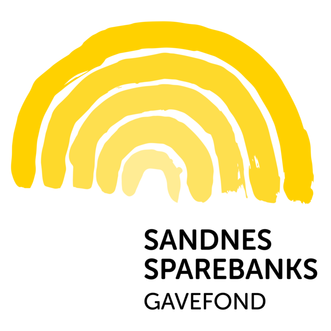
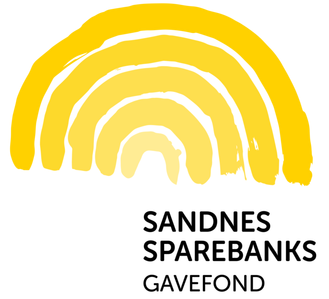
Triggered deployment

diff --git a/index.html b/index.html
@@ -100,22 +100,30 @@
                   <h2 class="blogpost_title"><a href="/posts/stottesandnessparebanksgavfond.html">Gavemidler fra Sandnes Sparebanks Gavefond</a></h2>
                   <section class="listing_meta"> <span>2019-05-14</span> </section>
                   <article class="contentarea">
-                  <p>Vi har mottatt gavemidler fra Sandnes Sparebanks Gavefond! Tusen takk til Sandnes Sparebanks Gavefond som har troen på oss og vår neste teaterproduksjon &laquo;Teno &amp; Stouch &amp; den rare Shakespeare&raquo;.</p>
-<p><br /></p>
-<p>
-<div class="blog_post_image"><img alt="Sandnes Sparebanks Gavefond" src="/uploads/images/SPGavefond.png" title="Sandnes Sparebanks Gavefond" /></div>
+                  <p>
+<div class="float_right" style="float: right">
+<div class="blog_post_image"><img alt=" Sandnes Sparebanks Gavefond " src="/uploads/images/gavefond-logo.png" style="width:300px;margin-right:1em" title=" Sandnes Sparebanks Gavefond " /></div>
+</div>
 </p>
+<p><strong>Teater Åndsverk har mottatt gavemidler fra Sandnes Sparebanks Gavefond!</strong></p>
+<p><br /></p>
+<p>Tusen takk til <a href="https://sandnes-sparebank.no/gavefond">Sandnes Sparebanks Gavefond</a> som har troen på oss og vår neste teaterproduksjon «Teno &amp; Stouch &amp; den rare Shakespeare». </p>
+<p><br /></p>
+<p>«Teno &amp; Stouch &amp; den rare Shakespeare» er en teaterforestilling som vil introdusere den verdenskjente dikteren William Shakespeare og hans verk til barn og unge. Følg produksjonen her eller på <a href="https://www.facebook.com/teateraandsverk/">Facebook</a> og <a href="https://www.instagram.com/teateraandsverk/">Instagram</a>.</p>
                   </article>
                 </div>
                 <div class="blog_post_preview">
                   <h2 class="blogpost_title"><a href="/posts/nystotteosloteatersenter.html">Støtte til vår nye produksjon fra Oslo teatersenter</a></h2>
                   <section class="listing_meta"> <span>2019-03-12</span> </section>
                   <article class="contentarea">
-                  <p>Teater Åndsverk har mottatt støtte i form av prøvelokaler fra Oslo teatersenter til vårt nye prosjekt: &laquo;Teno &amp; Stouch &amp; den rare Shakespeare&raquo;. Tusen takk! &laquo;Teno &amp; Stouch &amp; den rare Shakespeare&raquo; er en barneforestilling som vil introdusere den verdenskjente dikteren - William Shakespeare - til barn i alle aldre. Følg produksjonen videre her eller på <a href="https://www.facebook.com/teateraandsverk/">Facebook</a> og <a href="https://www.instagram.com/teateraandsverk/">Instagram</a>.</p>
-<p><br /></p>
-<p>
-<div class="blog_post_image"><img alt="Oslo teatersenter" src="/uploads/images/Osloteatersenter.jpg" title="Oslo teatersenter" /></div>
+                  <p>
+<div class="float_right" style="float: right">
+<div class="blog_post_image"><img alt="Oslo teatersenter" src="/uploads/images/Osloteatersenter.jpg" style="width:300px;margin-right:1em" title="Oslo teatersenter" /></div>
+</div>
 </p>
+<p><strong>Teater Åndsverk har mottatt støtte fra Oslo teatersenter!</strong></p>
+<p><br /></p>
+<p>Tusen takk til <a href="http://www.osloteatersenter.no/">Oslo teatersenter</a>! som støtter vårt nye prosjekt «Teno &amp; Stouch &amp; den rare Shakespeare» med prøvelokaler på Tøyen Trafo. «Teno &amp; Stouch &amp; den rare Shakespeare» er en teaterforestilling som vil introdusere den verdenskjente dikteren William Shakespeare til barn og unge. Følg produksjonen her eller på <a href="https://www.facebook.com/teateraandsverk/">Facebook</a> og <a href="https://www.instagram.com/teateraandsverk/">Instagram</a>.</p>
                   </article>
                 </div>
                 <div class="blog_post_preview">

diff --git a/fragment/page/index.html b/fragment/page/index.html
@@ -27,22 +27,30 @@
                   <h2 class="blogpost_title"><a href="/posts/stottesandnessparebanksgavfond.html">Gavemidler fra Sandnes Sparebanks Gavefond</a></h2>
                   <section class="listing_meta"> <span>2019-05-14</span> </section>
                   <article class="contentarea">
-                  <p>Vi har mottatt gavemidler fra Sandnes Sparebanks Gavefond! Tusen takk til Sandnes Sparebanks Gavefond som har troen på oss og vår neste teaterproduksjon &laquo;Teno &amp; Stouch &amp; den rare Shakespeare&raquo;.</p>
-<p><br /></p>
-<p>
-<div class="blog_post_image"><img alt="Sandnes Sparebanks Gavefond" src="/uploads/images/SPGavefond.png" title="Sandnes Sparebanks Gavefond" /></div>
+                  <p>
+<div class="float_right" style="float: right">
+<div class="blog_post_image"><img alt=" Sandnes Sparebanks Gavefond " src="/uploads/images/gavefond-logo.png" style="width:300px;margin-right:1em" title=" Sandnes Sparebanks Gavefond " /></div>
+</div>
 </p>
+<p><strong>Teater Åndsverk har mottatt gavemidler fra Sandnes Sparebanks Gavefond!</strong></p>
+<p><br /></p>
+<p>Tusen takk til <a href="https://sandnes-sparebank.no/gavefond">Sandnes Sparebanks Gavefond</a> som har troen på oss og vår neste teaterproduksjon «Teno &amp; Stouch &amp; den rare Shakespeare». </p>
+<p><br /></p>
+<p>«Teno &amp; Stouch &amp; den rare Shakespeare» er en teaterforestilling som vil introdusere den verdenskjente dikteren William Shakespeare og hans verk til barn og unge. Følg produksjonen her eller på <a href="https://www.facebook.com/teateraandsverk/">Facebook</a> og <a href="https://www.instagram.com/teateraandsverk/">Instagram</a>.</p>
                   </article>
                 </div>
                 <div class="blog_post_preview">
                   <h2 class="blogpost_title"><a href="/posts/nystotteosloteatersenter.html">Støtte til vår nye produksjon fra Oslo teatersenter</a></h2>
                   <section class="listing_meta"> <span>2019-03-12</span> </section>
                   <article class="contentarea">
-                  <p>Teater Åndsverk har mottatt støtte i form av prøvelokaler fra Oslo teatersenter til vårt nye prosjekt: &laquo;Teno &amp; Stouch &amp; den rare Shakespeare&raquo;. Tusen takk! &laquo;Teno &amp; Stouch &amp; den rare Shakespeare&raquo; er en barneforestilling som vil introdusere den verdenskjente dikteren - William Shakespeare - til barn i alle aldre. Følg produksjonen videre her eller på <a href="https://www.facebook.com/teateraandsverk/">Facebook</a> og <a href="https://www.instagram.com/teateraandsverk/">Instagram</a>.</p>
-<p><br /></p>
-<p>
-<div class="blog_post_image"><img alt="Oslo teatersenter" src="/uploads/images/Osloteatersenter.jpg" title="Oslo teatersenter" /></div>
+                  <p>
+<div class="float_right" style="float: right">
+<div class="blog_post_image"><img alt="Oslo teatersenter" src="/uploads/images/Osloteatersenter.jpg" style="width:300px;margin-right:1em" title="Oslo teatersenter" /></div>
+</div>
 </p>
+<p><strong>Teater Åndsverk har mottatt støtte fra Oslo teatersenter!</strong></p>
+<p><br /></p>
+<p>Tusen takk til <a href="http://www.osloteatersenter.no/">Oslo teatersenter</a>! som støtter vårt nye prosjekt «Teno &amp; Stouch &amp; den rare Shakespeare» med prøvelokaler på Tøyen Trafo. «Teno &amp; Stouch &amp; den rare Shakespeare» er en teaterforestilling som vil introdusere den verdenskjente dikteren William Shakespeare til barn og unge. Følg produksjonen her eller på <a href="https://www.facebook.com/teateraandsverk/">Facebook</a> og <a href="https://www.instagram.com/teateraandsverk/">Instagram</a>.</p>
                   </article>
                 </div>
                 <div class="blog_post_preview">

diff --git a/fragment/posts/nystotteosloteatersenter.html b/fragment/posts/nystotteosloteatersenter.html
@@ -15,11 +15,14 @@
                   <section class="listing_meta"> <span>2019-03-12</span> </section>
                   <div class="blog_post_content">
                     <article class="contentarea">
-                    <p>Teater Åndsverk har mottatt støtte i form av prøvelokaler fra Oslo teatersenter til vårt nye prosjekt: &laquo;Teno &amp; Stouch &amp; den rare Shakespeare&raquo;. Tusen takk! &laquo;Teno &amp; Stouch &amp; den rare Shakespeare&raquo; er en barneforestilling som vil introdusere den verdenskjente dikteren - William Shakespeare - til barn i alle aldre. Følg produksjonen videre her eller på <a href="https://www.facebook.com/teateraandsverk/">Facebook</a> og <a href="https://www.instagram.com/teateraandsverk/">Instagram</a>.</p>
-<p><br /></p>
-<p>
-<div class="blog_post_image"><img alt="Oslo teatersenter" src="/uploads/images/Osloteatersenter.jpg" title="Oslo teatersenter" /></div>
+                    <p>
+<div class="float_right" style="float: right">
+<div class="blog_post_image"><img alt="Oslo teatersenter" src="/uploads/images/Osloteatersenter.jpg" style="width:300px;margin-right:1em" title="Oslo teatersenter" /></div>
+</div>
 </p>
+<p><strong>Teater Åndsverk har mottatt støtte fra Oslo teatersenter!</strong></p>
+<p><br /></p>
+<p>Tusen takk til <a href="http://www.osloteatersenter.no/">Oslo teatersenter</a>! som støtter vårt nye prosjekt «Teno &amp; Stouch &amp; den rare Shakespeare» med prøvelokaler på Tøyen Trafo. «Teno &amp; Stouch &amp; den rare Shakespeare» er en teaterforestilling som vil introdusere den verdenskjente dikteren William Shakespeare til barn og unge. Følg produksjonen her eller på <a href="https://www.facebook.com/teateraandsverk/">Facebook</a> og <a href="https://www.instagram.com/teateraandsverk/">Instagram</a>.</p>
 
 
                     </article>

diff --git a/posts/nystotteosloteatersenter.html b/posts/nystotteosloteatersenter.html
@@ -88,11 +88,14 @@
                   <section class="listing_meta"> <span>2019-03-12</span> </section>
                   <div class="blog_post_content">
                     <article class="contentarea">
-                    <p>Teater Åndsverk har mottatt støtte i form av prøvelokaler fra Oslo teatersenter til vårt nye prosjekt: &laquo;Teno &amp; Stouch &amp; den rare Shakespeare&raquo;. Tusen takk! &laquo;Teno &amp; Stouch &amp; den rare Shakespeare&raquo; er en barneforestilling som vil introdusere den verdenskjente dikteren - William Shakespeare - til barn i alle aldre. Følg produksjonen videre her eller på <a href="https://www.facebook.com/teateraandsverk/">Facebook</a> og <a href="https://www.instagram.com/teateraandsverk/">Instagram</a>.</p>
-<p><br /></p>
-<p>
-<div class="blog_post_image"><img alt="Oslo teatersenter" src="/uploads/images/Osloteatersenter.jpg" title="Oslo teatersenter" /></div>
+                    <p>
+<div class="float_right" style="float: right">
+<div class="blog_post_image"><img alt="Oslo teatersenter" src="/uploads/images/Osloteatersenter.jpg" style="width:300px;margin-right:1em" title="Oslo teatersenter" /></div>
+</div>
 </p>
+<p><strong>Teater Åndsverk har mottatt støtte fra Oslo teatersenter!</strong></p>
+<p><br /></p>
+<p>Tusen takk til <a href="http://www.osloteatersenter.no/">Oslo teatersenter</a>! som støtter vårt nye prosjekt «Teno &amp; Stouch &amp; den rare Shakespeare» med prøvelokaler på Tøyen Trafo. «Teno &amp; Stouch &amp; den rare Shakespeare» er en teaterforestilling som vil introdusere den verdenskjente dikteren William Shakespeare til barn og unge. Følg produksjonen her eller på <a href="https://www.facebook.com/teateraandsverk/">Facebook</a> og <a href="https://www.instagram.com/teateraandsverk/">Instagram</a>.</p>
 
 
                     </article>

diff --git a/fragment/posts/stottesandnessparebanksgavfond.html b/fragment/posts/stottesandnessparebanksgavfond.html
@@ -15,11 +15,16 @@
                   <section class="listing_meta"> <span>2019-05-14</span> </section>
                   <div class="blog_post_content">
                     <article class="contentarea">
-                    <p>Vi har mottatt gavemidler fra Sandnes Sparebanks Gavefond! Tusen takk til Sandnes Sparebanks Gavefond som har troen på oss og vår neste teaterproduksjon &laquo;Teno &amp; Stouch &amp; den rare Shakespeare&raquo;.</p>
-<p><br /></p>
-<p>
-<div class="blog_post_image"><img alt="Sandnes Sparebanks Gavefond" src="/uploads/images/SPGavefond.png" title="Sandnes Sparebanks Gavefond" /></div>
+                    <p>
+<div class="float_right" style="float: right">
+<div class="blog_post_image"><img alt=" Sandnes Sparebanks Gavefond " src="/uploads/images/gavefond-logo.png" style="width:300px;margin-right:1em" title=" Sandnes Sparebanks Gavefond " /></div>
+</div>
 </p>
+<p><strong>Teater Åndsverk har mottatt gavemidler fra Sandnes Sparebanks Gavefond!</strong></p>
+<p><br /></p>
+<p>Tusen takk til <a href="https://sandnes-sparebank.no/gavefond">Sandnes Sparebanks Gavefond</a> som har troen på oss og vår neste teaterproduksjon «Teno &amp; Stouch &amp; den rare Shakespeare». </p>
+<p><br /></p>
+<p>«Teno &amp; Stouch &amp; den rare Shakespeare» er en teaterforestilling som vil introdusere den verdenskjente dikteren William Shakespeare og hans verk til barn og unge. Følg produksjonen her eller på <a href="https://www.facebook.com/teateraandsverk/">Facebook</a> og <a href="https://www.instagram.com/teateraandsverk/">Instagram</a>.</p>
 
 
                     </article>

diff --git a/posts/stottesandnessparebanksgavfond.html b/posts/stottesandnessparebanksgavfond.html
@@ -88,11 +88,16 @@
                   <section class="listing_meta"> <span>2019-05-14</span> </section>
                   <div class="blog_post_content">
                     <article class="contentarea">
-                    <p>Vi har mottatt gavemidler fra Sandnes Sparebanks Gavefond! Tusen takk til Sandnes Sparebanks Gavefond som har troen på oss og vår neste teaterproduksjon &laquo;Teno &amp; Stouch &amp; den rare Shakespeare&raquo;.</p>
-<p><br /></p>
-<p>
-<div class="blog_post_image"><img alt="Sandnes Sparebanks Gavefond" src="/uploads/images/SPGavefond.png" title="Sandnes Sparebanks Gavefond" /></div>
+                    <p>
+<div class="float_right" style="float: right">
+<div class="blog_post_image"><img alt=" Sandnes Sparebanks Gavefond " src="/uploads/images/gavefond-logo.png" style="width:300px;margin-right:1em" title=" Sandnes Sparebanks Gavefond " /></div>
+</div>
 </p>
+<p><strong>Teater Åndsverk har mottatt gavemidler fra Sandnes Sparebanks Gavefond!</strong></p>
+<p><br /></p>
+<p>Tusen takk til <a href="https://sandnes-sparebank.no/gavefond">Sandnes Sparebanks Gavefond</a> som har troen på oss og vår neste teaterproduksjon «Teno &amp; Stouch &amp; den rare Shakespeare». </p>
+<p><br /></p>
+<p>«Teno &amp; Stouch &amp; den rare Shakespeare» er en teaterforestilling som vil introdusere den verdenskjente dikteren William Shakespeare og hans verk til barn og unge. Følg produksjonen her eller på <a href="https://www.facebook.com/teateraandsverk/">Facebook</a> og <a href="https://www.instagram.com/teateraandsverk/">Instagram</a>.</p>
 
 
                     </article>
